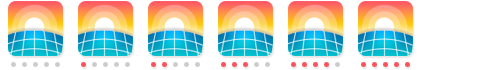
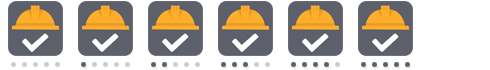
fix: building inspection style

diff --git a/packages/supervision/client/pages/checklist/checklist-view.ts b/packages/supervision/client/pages/checklist/checklist-view.ts
@@ -30,11 +30,10 @@ class ChecklistView extends connect(store)(LitElement) {
       :host {
         display: flex;
         flex-direction: column;
+        padding: var(--spacing-large, 12px);
+        padding-top:0;
         font-size: 14px;
-        padding: 20px;
         min-width: 800px;
-
-        background-color: var(--md-sys-color-surface);
       }
 
       [bold] {
@@ -45,7 +44,6 @@ class ChecklistView extends connect(store)(LitElement) {
         display: flex;
         color: #586878;
         font-size: 24px;
-        font-weight: bold;
         align-items: center;
         justify-content: center;
       }
@@ -58,8 +56,8 @@ class ChecklistView extends connect(store)(LitElement) {
         border-collapse: collapse;
         td,
         th {
-          border: 1px #999999 solid;
-          padding-inline: 8px;
+          border: 1px rgba(51,51,51,.20) solid;
+          padding-inline: var(--spacing-medium, 8px);
           vertical-align: middle;
         }
         th {
@@ -67,7 +65,8 @@ class ChecklistView extends connect(store)(LitElement) {
           font-weight: bold;
         }
         td {
-          height: 35px;
+          height: 33px;
+          background-color: var(--md-sys-color-on-primary);
           &[radio] {
             text-align: center;
             width: 55px;
@@ -76,7 +75,7 @@ class ChecklistView extends connect(store)(LitElement) {
       }
 
       table[header] {
-        margin-top: 5px;
+        margin-top: var(--spacing-small, 4px);;
 
         td {
           min-width: 180px;
@@ -89,9 +88,9 @@ class ChecklistView extends connect(store)(LitElement) {
       }
 
       table[body] {
-        border: 2px solid #999999;
+        border: 2px solid var(--md-sys-color-on-primary-container);
         border-bottom: none;
-        margin-top: 10px;
+        margin-top: var(--spacing-medium, 8px);
 
         th {
           text-align: center;
@@ -139,7 +138,7 @@ class ChecklistView extends connect(store)(LitElement) {
       }
 
       table[tail] {
-        border: 2px solid #999999;
+        border: 2px solid var(--md-sys-color-on-primary-container);
         border-top: none;
         margin-top: -1px;
 
@@ -151,6 +150,8 @@ class ChecklistView extends connect(store)(LitElement) {
           border-left: none;
           text-align: center;
           position: relative;
+          background-color: var(--md-sys-color-on-primary);
+          font-size: 14px;
         }
         th {
           width: 25%;
@@ -165,7 +166,7 @@ class ChecklistView extends connect(store)(LitElement) {
           pointer-events: none;
         }
         ox-input-signature {
-          margin: 10px;
+          margin: var(--spacing-medium, 8px);
 
           &[disabled] {
             background: #eee;
@@ -176,12 +177,12 @@ class ChecklistView extends connect(store)(LitElement) {
       div[footer] {
         display: flex;
         flex-direction: column;
-        gap: 3px;
+        gap: var(--spacing-tiny, 2px);
         font-size: 12px;
-        margin-top: 10px;
+        margin-top: var(--spacing-medium, 8px);
         color: #586878;
         text-indent: -9px;
-        padding-left: 9px;
+        padding-left: var(--spacing-medium, 8px);
       }
     `
   ]
@@ -251,7 +252,7 @@ class ChecklistView extends connect(store)(LitElement) {
 
     return html`
       <div wrapper>
-        <div name>${this.checklist.name}</div>
+        <div name bold>${this.checklist.name}</div>
 
         <table header>
           <tr>

diff --git a/packages/supervision/client/pages/building-inspection/component/building-inspection-detail-header.ts b/packages/supervision/client/pages/building-inspection/component/building-inspection-detail-header.ts
@@ -45,6 +45,7 @@ class BuildingInspectionDetailHeader extends LitElement {
 
       md-elevated-button {
         margin-left: var(--spacing-small, 4px);
+        letter-spacing: -1px; 
 
         --md-elevated-button-container-height: 32px;
         --md-elevated-button-label-text-size: 16px;
@@ -58,9 +59,14 @@ class BuildingInspectionDetailHeader extends LitElement {
         --md-elevated-button-hover-icon-color: var(--md-sys-color-on-primary);
         --md-elevated-button-pressed-icon-color: var(--md-sys-color-on-primary);
         --md-elevated-button-focus-icon-color: var(--md-sys-color-on-primary);
+        --_leading-space:var(--spacing-tiny, 2px);
 
         --_with-leading-icon-leading-space: var(--spacing-medium, 8px);
         --_with-leading-icon-trailing-space: var(--spacing-medium, 8px);
+
+        md-icon{
+          margin-right: -2px;
+        }
       }
     `
   ]
@@ -82,33 +88,33 @@ class BuildingInspectionDetailHeader extends LitElement {
             ?disabled=${path.includes('building-inspection-list/')}
             href=${`building-inspection-list/${this.buildingLevelId}`}
           >
-            <md-icon slot="icon">assignment</md-icon>검측 리스트
+            <md-icon slot="icon">list_alt</md-icon>검측 리스트
           </md-elevated-button>
           <md-elevated-button
             ?disabled=${path.includes('building-inspection-detail-drawing/')}
             href=${`building-inspection-detail-drawing/${this.buildingInspectionId}`}
           >
-            <md-icon slot="icon">assignment</md-icon>검측도면
+            <md-icon slot="icon">fact_check</md-icon>검측도면
           </md-elevated-button>
           <md-elevated-button
             ?disabled=${path.includes('building-inspection-detail-checklist/')}
             href=${`building-inspection-detail-checklist/${this.buildingInspectionId}`}
           >
-            <md-icon slot="icon">description</md-icon>검측 체크리스트
+            <md-icon slot="icon">task</md-icon>검측 체크리스트
           </md-elevated-button>
           <md-elevated-button
             ?disabled=${path.includes('building-inspection-detail-camera/')}
             href=${`building-inspection-detail-camera/${this.buildingInspectionId}`}
             disabled
           >
-            <md-icon slot="icon">description</md-icon>사진촬영
+            <md-icon slot="icon">photo_camera</md-icon>사진촬영
           </md-elevated-button>
           <md-elevated-button
             ?disabled=${path.includes('building-inspection-detail-history/')}
             href=${`building-inspection-detail-history/${this.buildingInspectionId}`}
             disabled
           >
-            <md-icon slot="icon">description</md-icon>감리이력
+            <md-icon slot="icon">pending_actions</md-icon>감리이력
           </md-elevated-button>
         </div>
       </div>

diff --git a/packages/supervision/client/pages/building-inspection/building-inspection-detail-checklist.ts b/packages/supervision/client/pages/building-inspection/building-inspection-detail-checklist.ts
@@ -26,11 +26,11 @@ export class BuildingInspectionDetailChecklist extends PageView {
     css`
       :host {
         display: grid;
-        grid-template-rows: 75px auto;
+        grid-template-rows: 55px auto;
         color: #4e5055;
 
         width: 100%;
-        background-color: #f7f7f7;
+        background-color: var(--md-sys-color-background, #f6f6f6);
         overflow-y: auto;
 
         --grid-record-emphasized-background-color: red;
